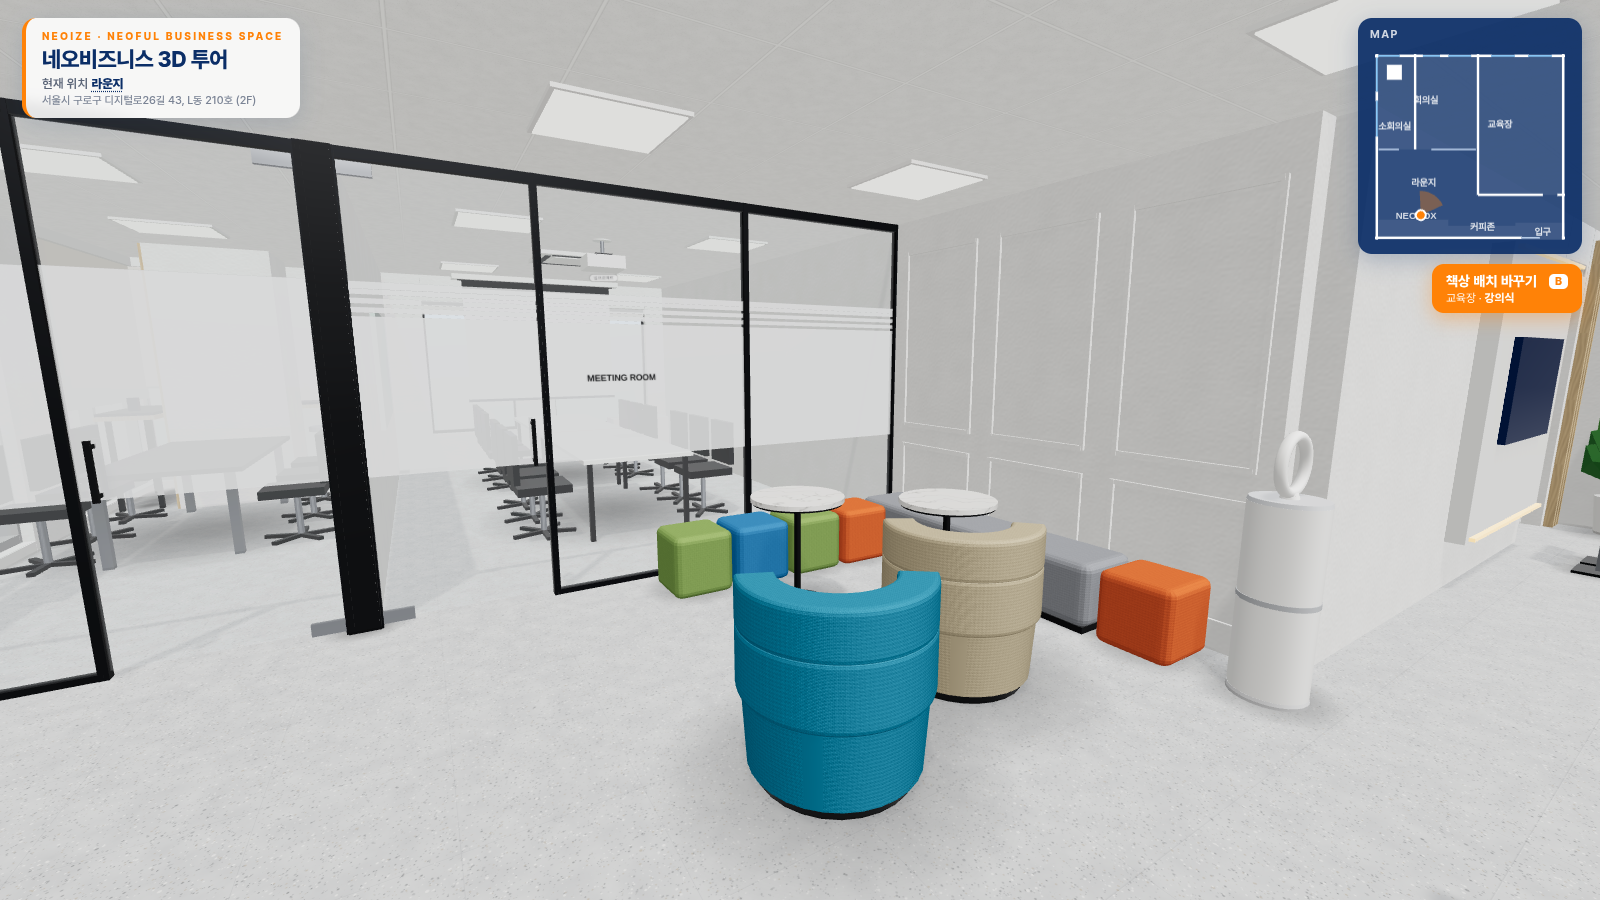
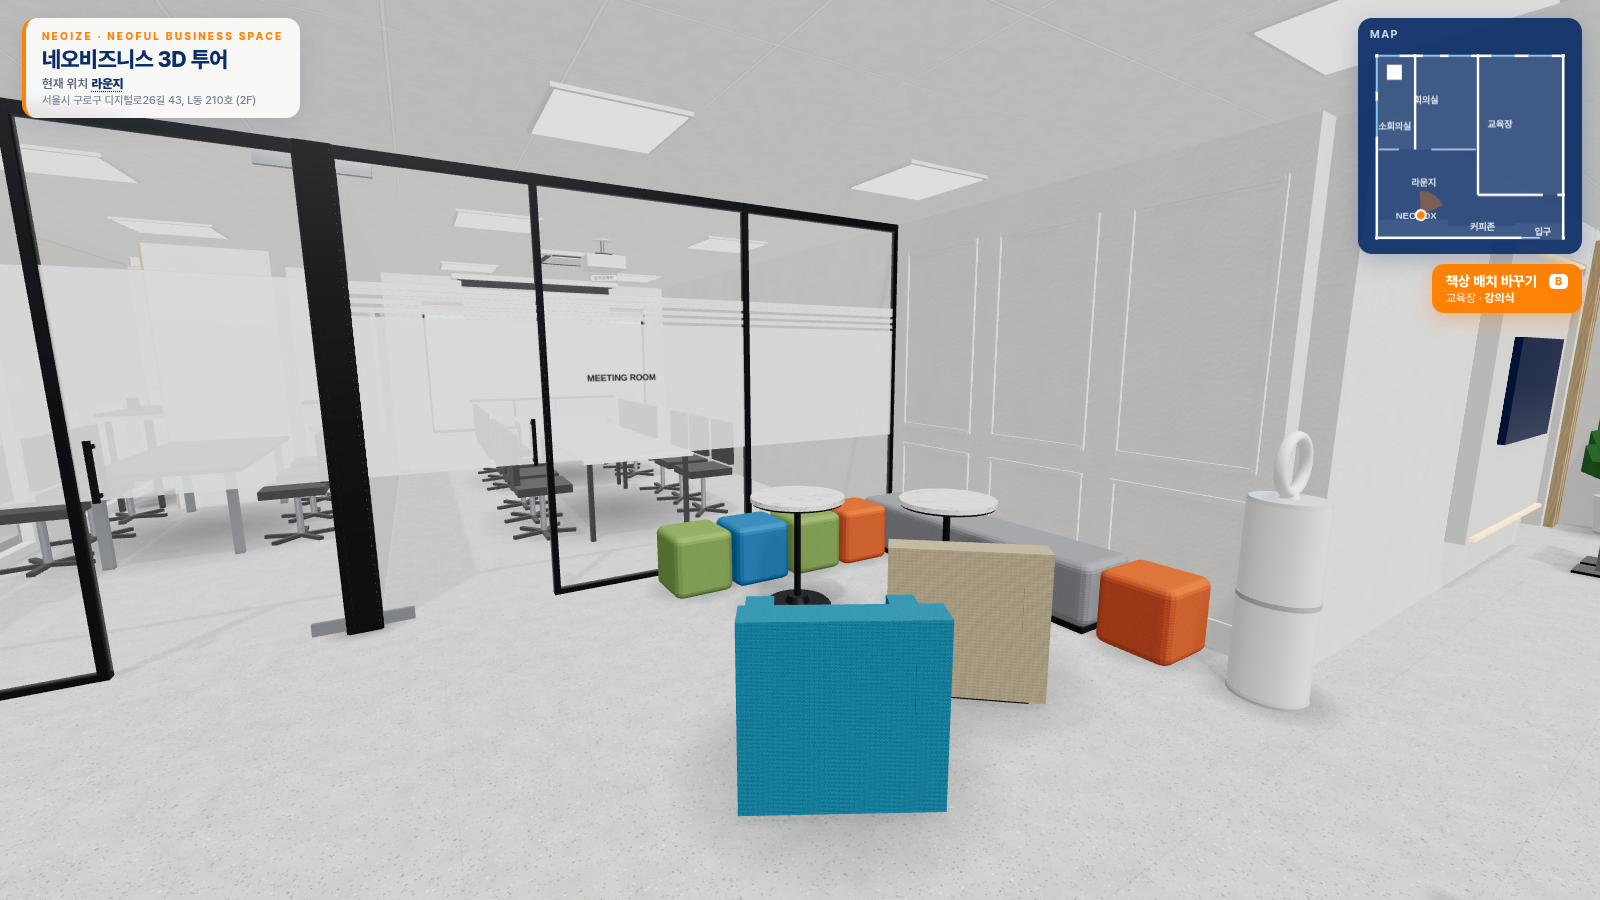
라운지 암체어를 이전 상자형 모델로 되돌림

Changed region(s): [[0.4375, 0.56, 0.6562, 0.9333]]

diff --git a/app.js b/app.js
@@ -5,7 +5,7 @@ import { OrbitControls } from 'three/addons/OrbitControls.js';
 import { CSS2DRenderer, CSS2DObject } from 'three/addons/CSS2DRenderer.js';
 import { RoomEnvironment } from 'three/addons/RoomEnvironment.js';
 import { mergeGeometries } from 'three/addons/BufferGeometryUtils.js';
-import { makeTextures, textTexture } from './textures.js?v=11191405';
+import { makeTextures, textTexture } from './textures.js?v=11191410';
 
 const L = window.LAYOUT, B = L.building, H = B.ceiling, EYE = B.eye || 1.6, W = B.width, D = B.depth;
 const TW = Object.assign({ exterior: 0.24, interior: 0.14, thick: 0.3 }, B.wall || {});
@@ -400,13 +400,11 @@ function arcWall(R0, R1, h, open, m, y, p, bevel = 0.025) {
   geo.rotateX(-Math.PI / 2); geo.translate(0, y + bevel, 0); geo.computeVertexNormals();
   const g = new THREE.Mesh(geo, m); p.add(g); return g;
 }
-function armchair(g, o) {   // 라운지 터브 암체어(사진): 둥근 몸통 + 앞이 열린 C자 팔걸이/등받이, 등받이가 조금 더 높음, 낮은 검정 받침
-  const m = matOf(o.color || 'fabricTeal'), R = 0.37;
-  cyl(R - 0.03, R - 0.05, 0.05, M.black, 0, 0, 0, 28, g);                                   // 받침
-  cyl(R, R - 0.02, 0.3, m, 0, 0.05, 0, 32, g);                                                  // 몸통(좌석 아래)
-  cyl(R - 0.1, R - 0.1, 0.07, m, 0, 0.35, -0.02, 28, g);                                        // 방석
-  arcWall(R - 0.12, R, 0.27, 1.75, m, 0.35, g);                                                 // 팔걸이 높이까지 C자 벽
-  arcWall(R - 0.12, R, 0.2, 3.4, m, 0.6, g);                                                    // 등받이(뒤쪽만 더 높게)
+function armchair(g, o) {   // 라운지 암체어(이전 모델로 되돌림, 사용자 11/19)
+  const m = matOf(o.color || 'fabricTeal');
+  box(0.72, 0.36, 0.68, m, 0, 0.04, 0, g); box(0.72, 0.36, 0.14, m, 0, 0.38, 0.27, g);
+  box(0.12, 0.2, 0.62, m, -0.3, 0.38, 0.03, g); box(0.12, 0.2, 0.62, m, 0.3, 0.38, 0.03, g);
+  box(0.6, 0.04, 0.56, M.black, 0, 0, 0, g);
 }
 function cube(g, o) { const s = o.size || 0.42; rbox(s, o.h || s, s, 0.045, matOf(o.color || 'fabricOrange'), 0, 0, 0, g); }   // 패브릭 큐브 스툴(둥근 모서리)
 function roundTable(g, o) {   // 카페 원형 테이블: 대리석 상판 + 가는 검정 기둥 + 둥근 검정 원판 받침

diff --git a/index.html b/index.html
@@ -144,8 +144,8 @@ body.walk .tag{display:none}   /* 걷기: 방 이름 핀은 숨기고 왼쪽 위
   </div>
 </aside>
 <!-- 공간 설정: 치수·가구 배치는 layout.js 에서 수정 -->
-<script src="layout.js?v=11191405"></script>
+<script src="layout.js?v=11191410"></script>
 <script type="importmap">{"imports":{"three":"./lib/three.module.min.js","three/addons/":"./lib/addons/"}}</script>
-<script type="module" src="app.js?v=11191405"></script>
+<script type="module" src="app.js?v=11191410"></script>
 </body>
 </html>

diff --git a/수정방법.md b/수정방법.md
@@ -286,5 +286,5 @@ ceiling: { panels:[ { rect:[x1,z1,x2,z2], nx:2, nz:3 } ],  aircon:[[x,z], ...] }
 ## 라운지 북동쪽 코너 (11/19 사진)
 - 회의실 유리(z6.22) 앞 큐브 줄(초록·파랑·초록·주황, x4.55–5.9) → 교육장 몰딩 벽 아래 L자 회색 `bench`(x6.36, z6.4–8.5) → 벤치 끝 주황 큐브.
 - 카페 원형 테이블 2개(`roundTable` r0.3, h0.72: 대리석 상판 + 검정 기둥/원판), 터브 암체어 2개(`armchair`, 청록·베이지), LG 공기청정기(`purifier`, 흰 원통 2단 + 원형 센서 헤드). (오토만 큐브 2개·크롬 차단봉은 사용자 요청으로 뺐어요. 필요하면 `stanchion` 타입으로 다시 넣을 수 있어요.)
-- `cube`·`bench` 는 둥근 모서리(패브릭), `armchair` 는 둥근 몸통 + 앞이 열린 C자 팔걸이/등받이로 그려요. rot 으로 바라보는 방향을 바꿀 수 있어요.
+- `cube`·`bench` 는 둥근 모서리(패브릭), `armchair` 는 이전 상자형 소파 모델이에요(둥근 터브형은 사용자 요청으로 되돌림). rot 으로 바라보는 방향을 바꿀 수 있어요.
 - NEOBOX → 회의실/소회의실 문 쪽 통로(x2–3.9)는 비워 두세요.
